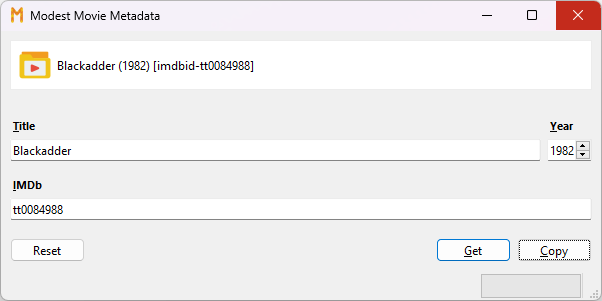
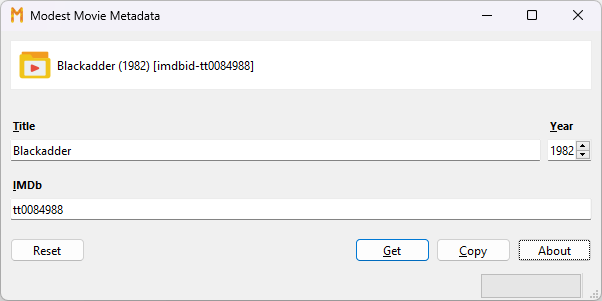
Update readme and screenshot

Changed region(s): [[0.598, 0.7774, 0.8372, 0.8671], [0.897, 0.0, 1.0, 0.1196], [0.897, 0.8073, 0.9568, 0.8671]]

diff --git a/README.md b/README.md
@@ -5,7 +5,7 @@
 A very simple tool to generate [Jellyfin](https://jellyfin.org/) folder 
 names using data from IMDb. By way of example, for the television show 
 [Blackadder](https://www.imdb.com/title/tt0084988/), this tool will
-generate:
+generate the folder name `Blackadder (1982) [imdbid-tt0084988]`:
 
 ![Program screenshot](.github/modest-movie-metadata.png)
 
@@ -18,6 +18,8 @@ If you prefer, you can enter only the title and year, and attempt to look
 up the IMDB ID using this tool. However, in practice, it is typically easier to 
 search for the content on the IMDb website using a web browser, and then simply 
 copy the URL to the clipboard.
+
+The program does not create or monitor folders on the file system. 
 
 Developed with Python 3.12 and PySide 6.6. Tested under Windows 10 and 11.
 
